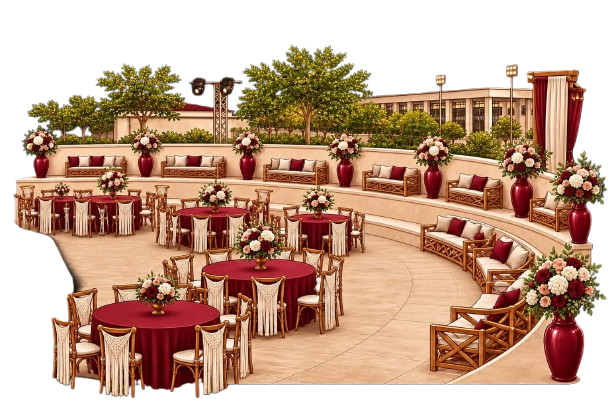
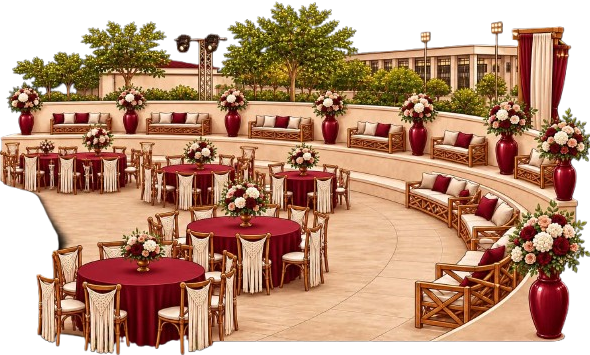
Edit photo5

diff --git a/src/App.css b/src/App.css
@@ -2523,20 +2523,23 @@ html {
 }
 
 /* Responsive venue image */
+/* Venue image — full available screen width */
+
 .venue-photo-wrap {
+  display: block;
   width: 100%;
-  display: flex;
-  justify-content: center;
-  align-items: center;
-  box-sizing: border-box;
+  max-width: 100%;
+  margin: 0 auto 5px !important;
   padding: 0;
-  margin: -5px auto 5px !important;
+  box-sizing: border-box;
+  overflow: hidden;
 }
 
 .venue-photo {
   display: block;
   width: 100%;
-  height: auto;
   max-width: 100%;
+  height: auto;
+  margin: 0 auto;
   object-fit: contain;
 }
